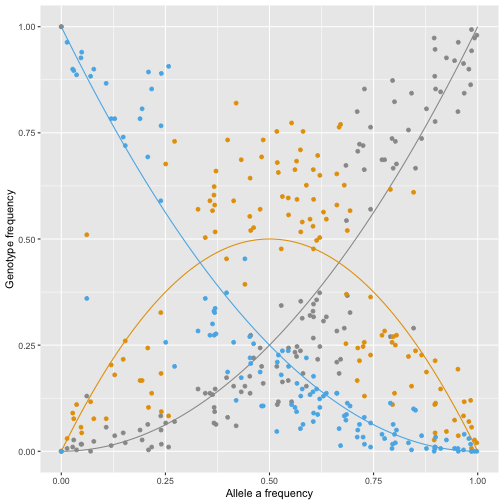
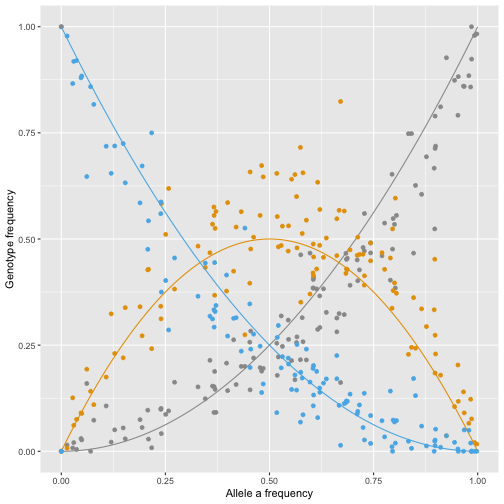
Update MD

diff --git a/README.md b/README.md
@@ -158,7 +158,7 @@ snp_data <- vcf %>%
   group_by(snp_id, CHROM, REF, ALT, template_size, pcr1_product, pcr2_product, gc_clamp, gc_3prime, f_gc_clamp, r_gc_clamp, f_gc_3prime, r_gc_3prime) %>% 
   summarize(n_called = sum(called), n = n(), call_rate = n_called/n, AD1 = sum(AD1),
 	          AD2 = sum(AD2), totalDP = sum(DP), meanDP = mean(DP), medianDP = median(DP),
-						paa = sum(gt == 0) / n(), pAa = sum(gt == 1) / n(), pAA = sum(gt == 2) / n())
+						paa = sum(gt == 0 & called) / n_called, pAa = sum(gt == 1 & called) /  n_called, pAA = sum(gt == 2 & called) /  n_called)
 ```
 
 ```
@@ -290,16 +290,47 @@ ggplot(snp_data, aes(x = pcr1_product, y = call_rate)) + geom_point() + geom_smo
 
 ![plot of chunk unnamed-chunk-8](figure/unnamed-chunk-8-1.png)
 
+```r
+glm1 <- glmer(called ~ I(scale(pcr1_product)) + (1|sample), family = binomial, data = vcf)
+summary(glm1)
+```
+
+```
+## Generalized linear mixed model fit by maximum likelihood (Laplace Approximation) ['glmerMod']
+##  Family: binomial  ( logit )
+## Formula: called ~ I(scale(pcr1_product)) + (1 | sample)
+##    Data: vcf
+## 
+##      AIC      BIC   logLik deviance df.resid 
+##  33561.1  33586.7 -16777.5  33555.1    37797 
+## 
+## Scaled residuals: 
+##      Min       1Q   Median       3Q      Max 
+## -10.9097  -0.4737  -0.1357   0.4941   8.3407 
+## 
+## Random effects:
+##  Groups Name        Variance Std.Dev.
+##  sample (Intercept) 4.288    2.071   
+## Number of obs: 37800, groups:  sample, 300
+## 
+## Fixed effects:
+##                        Estimate Std. Error z value Pr(>|z|)    
+## (Intercept)            -0.16309    0.12078   -1.35    0.177    
+## I(scale(pcr1_product)) -0.44554    0.01431  -31.12   <2e-16 ***
+## ---
+## Signif. codes:  0 '***' 0.001 '**' 0.01 '*' 0.05 '.' 0.1 ' ' 1
+## 
+## Correlation of Fixed Effects:
+##             (Intr)
+## I(scl(p1_)) 0.003
+```
+
 
 ## Figure 7. PCR product size x Mean depth
 
 
 ```r
 ggplot(snp_data, aes(x = pcr1_product, y = meanDP)) + geom_point() + ylab("Mean depth") + xlab("PCR 1 product size")
-
-
-glm1 <- glmer(called ~ I(scale(pcr1_product)) + (1|sample), family = binomial, data = vcf)
-summary(glm1)
 ```
 
 ![plot of chunk unnamed-chunk-9](figure/unnamed-chunk-9-1.png)
@@ -387,3 +418,6 @@ ggplot(snp_data, aes(x = r_gc_3prime, y = call_rate)) + geom_boxplot() + ggtitle
 ```
 
 ![plot of chunk unnamed-chunk-13](figure/unnamed-chunk-13-3.png)
+
+
+
